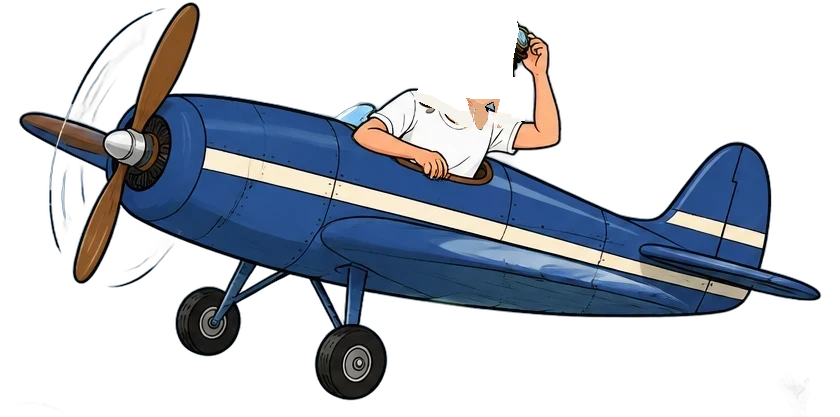
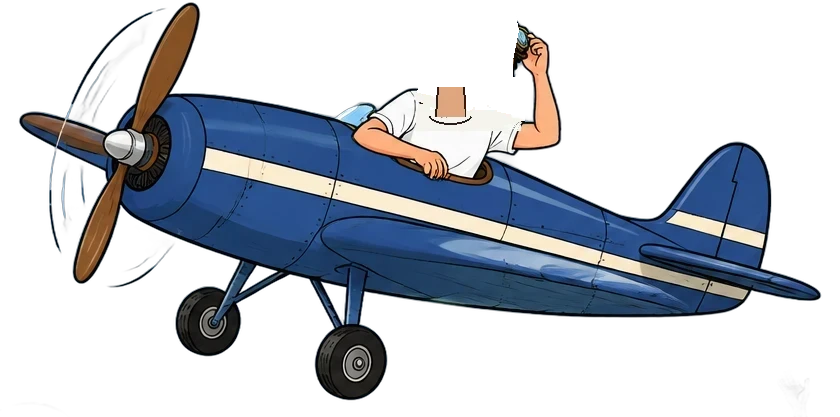
Bolder modern fonts; clean neck on pilot
Claude-Session: https://claude.ai/code/session_014wiP6WimH2b4AML7aFrYC6

Changed region(s): [[0.4952, 0.1871, 0.619, 0.3118]]

diff --git a/index.html b/index.html
@@ -12,7 +12,7 @@
 <link rel="preload" as="image" href="assets/bg-day.webp">
 <link rel="preconnect" href="https://fonts.googleapis.com">
 <link rel="preconnect" href="https://fonts.gstatic.com" crossorigin>
-<link href="https://fonts.googleapis.com/css2?family=Cormorant+Garamond:ital,wght@0,400;0,500;0,600;1,400;1,500&family=Great+Vibes&family=Tiro+Devanagari+Hindi&display=swap" rel="stylesheet">
+<link href="https://fonts.googleapis.com/css2?family=Fraunces:ital,opsz,wght@0,9..144,600;0,9..144,700;0,9..144,800;1,9..144,600;1,9..144,700&family=Outfit:wght@400;500;600;700&family=Tiro+Devanagari+Hindi&display=swap" rel="stylesheet">
 <style>
   :root{
     --ink:#2a2f45; --muted:#6f6a7a; --gold:#b8913f; --gold-l:#e6cf98; --rose:#b56576; --navy:#1f2a44;
@@ -20,7 +20,7 @@
   }
   *{box-sizing:border-box;margin:0;padding:0}
   html,body{background:#a9d3f0}
-  body{font-family:'Cormorant Garamond',Georgia,serif;color:var(--ink);font-size:20px;line-height:1.5;overflow-x:hidden}
+  body{font-family:'Outfit',system-ui,sans-serif;color:var(--ink);font-size:19px;line-height:1.5;overflow-x:hidden}
   .hindi{font-family:'Tiro Devanagari Hindi',serif}
 
 
@@ -32,42 +32,42 @@
     opacity:0;transform:translateY(36px);transition:opacity 1s ease, transform 1s cubic-bezier(.2,.8,.2,1)}
   .card::before{content:"";position:absolute;inset:8px;border:1px solid rgba(184,145,63,.45);pointer-events:none}
   .card.on{opacity:1;transform:none}
-  .tag{display:block;font-size:.72rem;letter-spacing:.32em;text-transform:uppercase;color:var(--gold);margin-bottom:.9rem;font-weight:600}
-  h1{font-size:clamp(2.6rem,6.5vw,3.5rem);line-height:1.05;font-weight:500;font-style:italic}
-  h2{font-size:2rem;line-height:1.15;font-weight:500;margin-bottom:.4rem;font-style:italic}
-  .names{font-family:'Great Vibes',cursive;font-size:clamp(3rem,8vw,4.2rem);line-height:1.15;color:var(--rose);margin:.3rem 0}
-  .lead{font-size:1.15rem;color:var(--muted);font-style:italic}
-  .meta{margin-top:1rem;letter-spacing:.18em;text-transform:uppercase;font-size:.85rem;font-weight:600}
+  .tag{display:block;font-size:.82rem;letter-spacing:.2em;font-weight:700!important;text-transform:uppercase;color:var(--gold);margin-bottom:.9rem;font-weight:600}
+  h1{font-family:'Fraunces',serif;font-size:clamp(2.6rem,6.5vw,3.6rem);line-height:1.05;font-weight:800}
+  h2{font-family:'Fraunces',serif;font-size:2.1rem;line-height:1.15;font-weight:700;margin-bottom:.5rem}
+  .names{font-family:'Fraunces',serif;font-style:italic;font-weight:700;font-size:clamp(2.6rem,7vw,3.8rem);line-height:1.1;color:var(--rose);margin:.3rem 0}
+  .lead{font-size:1.15rem;color:var(--muted);font-weight:500}
+  .meta{margin-top:1rem;letter-spacing:.08em;text-transform:uppercase;font-size:1rem;font-weight:700}
   .orn{display:block;margin:1rem auto;width:140px;height:14px;color:var(--gold)}
-  .hint{margin-top:1.2rem;font-size:.72rem;letter-spacing:.3em;text-transform:uppercase;color:var(--gold);animation:bob 2.4s infinite}
+  .hint{margin-top:1.2rem;font-size:.85rem;font-weight:700;letter-spacing:.18em;text-transform:uppercase;color:var(--gold);animation:bob 2.4s infinite}
   @keyframes bob{50%{transform:translateY(5px)}}
 
   .person{margin:.6rem 0}
-  .person .nm{font-family:'Great Vibes',cursive;font-size:2.3rem;color:var(--rose);line-height:1.3}
-  .person .par{color:var(--muted);font-size:1rem;font-style:italic}
-  .with{font-style:italic;color:var(--gold);margin:.1rem 0;letter-spacing:.1em}
+  .person .nm{font-family:'Fraunces',serif;font-style:italic;font-weight:700;font-size:2rem;color:var(--rose);line-height:1.3}
+  .person .par{color:var(--muted);font-size:1.02rem;font-weight:500}
+  .with{font-weight:600;color:var(--gold);margin:.1rem 0;letter-spacing:.1em}
 
   .pass{display:flex;background:#fffdf8;border:1px solid var(--gold-l);margin-top:1rem;text-align:left}
   .pass .stub{background:var(--navy);color:var(--gold-l);padding:1rem .9rem;display:flex;flex-direction:column;justify-content:center;align-items:center;min-width:86px;position:relative;text-align:center}
   .pass .stub::after{content:"";position:absolute;right:-1px;top:6px;bottom:6px;border-right:2px dotted var(--gold-l)}
-  .pass .stub .d{font-size:2.2rem;font-weight:500;line-height:1}
-  .pass .stub .m{font-size:.7rem;letter-spacing:.3em}
-  .pass .stub .w{font-size:.75rem;font-style:italic;opacity:.85;margin-top:.15rem}
+  .pass .stub .d{font-family:'Fraunces',serif;font-size:2.3rem;font-weight:800;line-height:1}
+  .pass .stub .m{font-size:.8rem;font-weight:700;letter-spacing:.18em}
+  .pass .stub .w{font-size:.82rem;font-weight:500;opacity:.85;margin-top:.15rem}
   .pass .body{padding:.8rem 1.1rem;flex:1}
   .pass .row{display:flex;justify-content:space-between;align-items:baseline;gap:.8rem;padding:.4rem 0}
   .pass .row + .row{border-top:1px solid #efe4cc}
-  .pass .ev{font-weight:600;font-size:1.12rem}
-  .pass .t{letter-spacing:.12em;color:var(--gold);white-space:nowrap;font-weight:600;font-size:.95rem}
-  .pass .small{font-size:.95rem;color:var(--muted);font-style:italic}
+  .pass .ev{font-weight:700;font-size:1.15rem}
+  .pass .t{letter-spacing:.04em;color:var(--gold);white-space:nowrap;font-weight:700;font-size:1.05rem}
+  .pass .small{font-size:1rem;color:var(--muted);font-weight:500}
 
   .btn{display:inline-block;margin-top:1.2rem;padding:.65rem 1.6rem;border:1px solid var(--navy);color:var(--navy);text-decoration:none;
-    letter-spacing:.2em;text-transform:uppercase;font-size:.75rem;font-weight:600;transition:all .25s}
+    letter-spacing:.12em;text-transform:uppercase;font-size:.9rem;font-weight:700;transition:all .25s}
   .btn:hover{background:var(--navy);color:var(--gold-l)}
 
   .countdown{display:grid;grid-template-columns:repeat(4,1fr);gap:.5rem;margin-top:.8rem}
   .cd{border:1px solid var(--gold-l);padding:.7rem .2rem;background:#fffdf8}
-  .cd b{display:block;font-size:2rem;font-weight:500;color:var(--navy);line-height:1.1}
-  .cd small{font-size:.62rem;letter-spacing:.25em;text-transform:uppercase;color:var(--gold)}
+  .cd b{display:block;font-family:'Fraunces',serif;font-size:2.1rem;font-weight:800;color:var(--navy);line-height:1.1}
+  .cd small{font-size:.75rem;font-weight:700;letter-spacing:.12em;text-transform:uppercase;color:var(--gold)}
 
   section.final{align-items:flex-start;padding-top:9vh}
   .final .card{margin:0}
@@ -79,7 +79,7 @@
     #welcome{padding-top:22vh}
     .card{padding:1.6rem 1.4rem;max-width:none}
     h2{font-size:1.7rem}
-    .person .nm{font-size:1.95rem}
+    .person .nm{font-size:1.75rem}
   }
   @media (prefers-reduced-motion:reduce){
     .card{transition:none;opacity:1;transform:none}
@@ -119,10 +119,10 @@
 
 
   /* ---------- transparent text over the art ---------- */
-  body{--fg:#1d2340;--fg2:#3c4366;--acc:#7a5a12;--glow:rgba(255,255,255,.85)}
+  body{--fg:#141a33;--fg2:#262d4f;--acc:#6b4700;--glow:rgba(255,255,255,.85)}
   body.dark{--fg:#fff8ec;--fg2:#f1e6d2;--acc:#f3d48a;--glow:rgba(6,16,50,.85)}
   .card{background:none!important;border:0!important;box-shadow:none!important;backdrop-filter:none!important;-webkit-backdrop-filter:none!important;
-    color:var(--fg);text-shadow:0 0 10px var(--glow),0 0 22px var(--glow),0 1px 2px var(--glow);transition:opacity 1s ease,transform 1s cubic-bezier(.2,.8,.2,1),color .8s}
+    color:var(--fg);text-shadow:0 0 6px var(--glow),0 0 14px var(--glow),0 0 28px var(--glow),0 1px 2px var(--glow);transition:opacity 1s ease,transform 1s cubic-bezier(.2,.8,.2,1),color .8s}
   .card::before{display:none}
   .card h1,.card h2,.card .meta,.card .pass .ev{color:var(--fg)}
   .card .lead,.card .person .par,.card .pass .small,.card .with{color:var(--fg2)}
@@ -153,7 +153,7 @@
   <div id="walker" class="sprite"><img src="assets/walker-body.webp" alt=""><img id="hWalk" class="head" src="assets/head-p-walk.webp" alt="" style="left:31.10%;top:-5.14%;width:35.95%;height:28.00%"></div>
   <div id="hug" class="sprite"><img src="assets/hug-body.webp" alt=""><img id="hHugM" class="head" src="assets/head-m-hug.webp" alt="" style="left:19.86%;top:-5.06%;width:28.13%;height:24.19%"><img id="hHugP" class="head" src="assets/head-p-hug.webp" alt="" style="left:-1.89%;top:3.94%;width:25.04%;height:18.85%"></div>
   <div id="hearts"></div>
-  <div id="plane" class="sprite"><img src="assets/plane-body.webp" alt=""><img id="hPlane2" class="head flip" src="assets/head-p-walk.webp" alt="" style="left:47.62%;top:-7.19%;width:13.87%;height:36.45%;opacity:0"><img id="hPlane" class="head flip" src="assets/head-p-plane.webp" alt="" style="left:48.21%;top:-6.24%;width:13.26%;height:36.45%"></div>
+  <div id="plane" class="sprite"><img src="assets/plane-body.webp" alt=""><img id="hPlane2" class="head flip" src="assets/head-p-walk.webp" alt="" style="left:47.62%;top:-11.03%;width:13.87%;height:36.45%;opacity:0"><img id="hPlane" class="head flip" src="assets/head-p-plane.webp" alt="" style="left:48.21%;top:-10.07%;width:13.26%;height:36.45%"></div>
 </div>
 
 <main>
